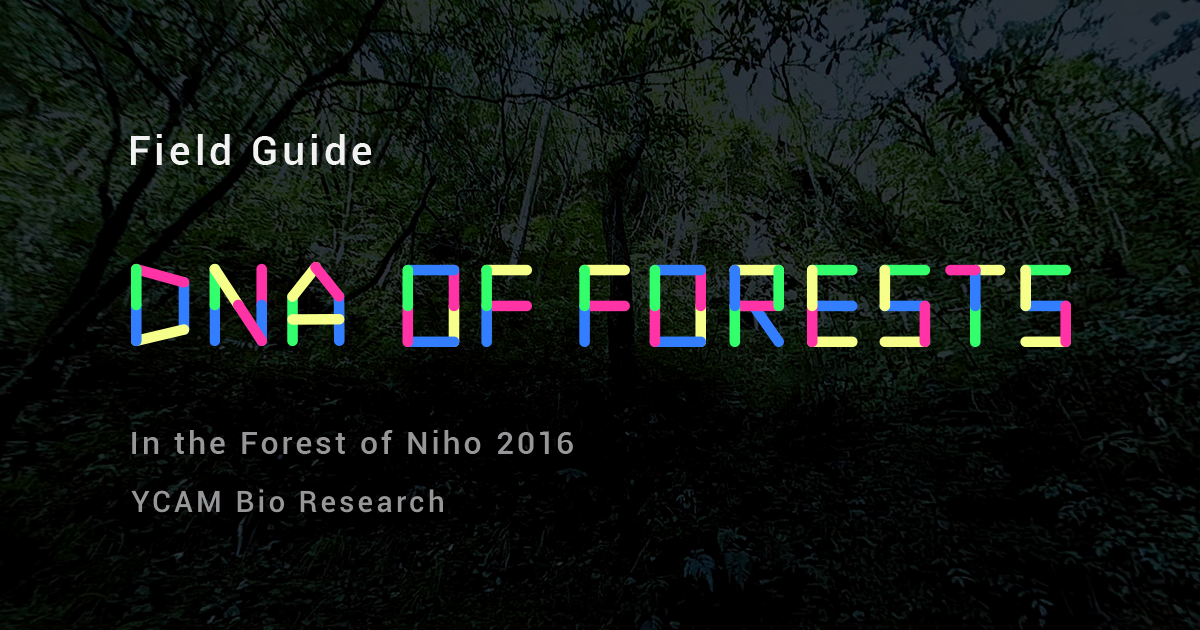
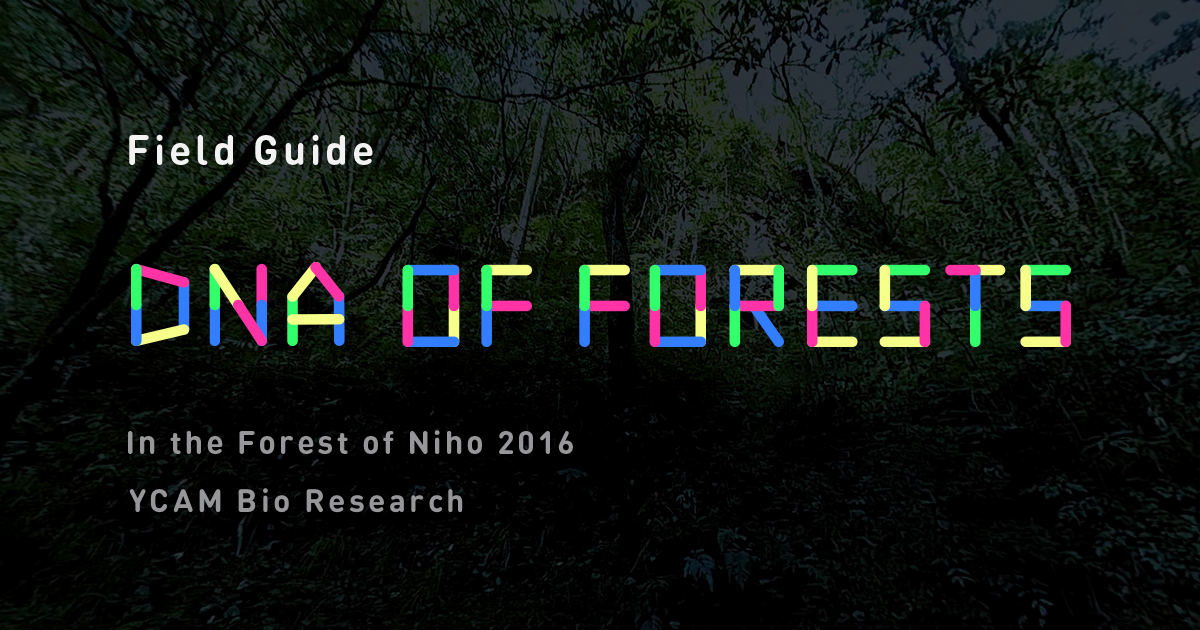
伊藤さんの希望により、英語版のロゴをDIN Roundにして可愛らしさをアップ

diff --git a/source/dna-of-forests/components/modal/entrance-modal.vue b/source/dna-of-forests/components/modal/entrance-modal.vue
@@ -62,7 +62,7 @@ html[lang=en]
   .modal
     text-align: left
     .logo
-      margin-top: 44px
-      margin-bottom: 69px
+      margin-top: 42px
+      margin-bottom: 68px
 
 </style>

diff --git a/source/dna-of-forests/components/page/about.vue b/source/dna-of-forests/components/page/about.vue
@@ -191,6 +191,9 @@ article.about
 
 html[lang=en]
   article.about
+    h1
+      margin-top: 116px
+      margin-bottom: 146px
     h2
       margin-bottom: 50px
     p
